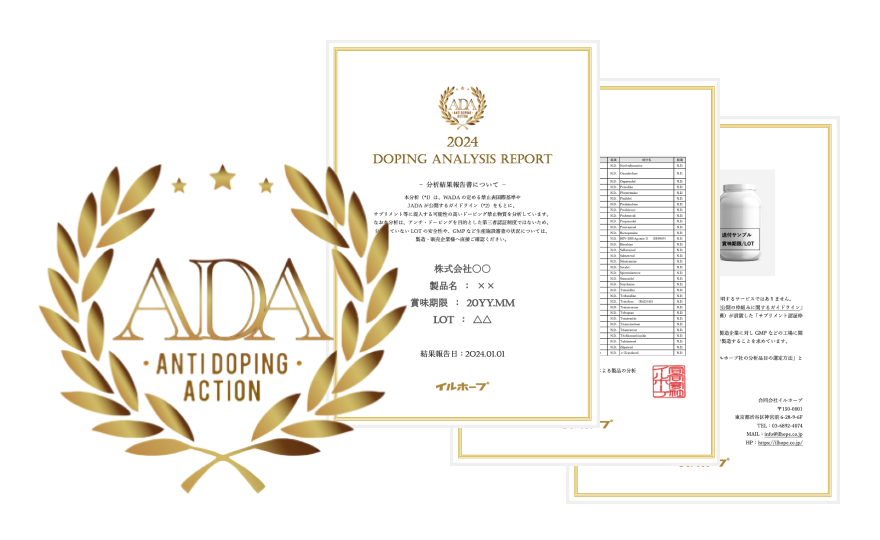
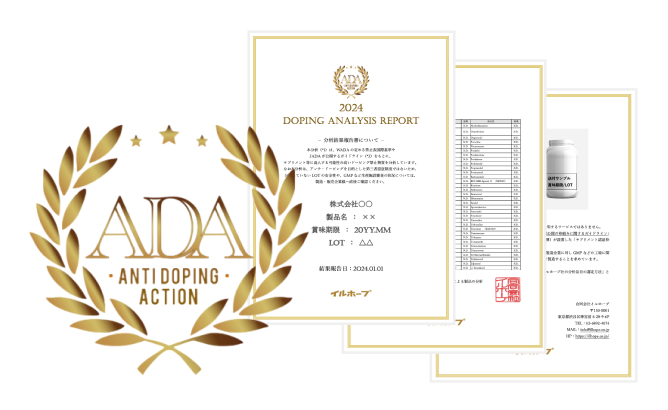
リンク設置、画像差し替え

diff --git a/src/sass/layout/_l-contact.scss b/src/sass/layout/_l-contact.scss
@@ -1,8 +1,8 @@
 @use 'global' as *;
 
-.l-contact {
-  margin-top: rem(47);
-  @include mq() {
-    margin-top: rem(100);
-  }
-}
+// .l-contact {
+//   margin-top: rem(47);
+//   @include mq() {
+//     margin-top: rem(100);
+//   }
+// }

diff --git a/src/sass/object/project/_p-contact.scss b/src/sass/object/project/_p-contact.scss
@@ -1,6 +1,11 @@
 @use "global" as *;
 
 .p-contact {
+  padding-top: rem(47);
+  @include mq() {
+    padding-top: rem(100);
+  }
+
 }
 
 .p-contact__inner {

diff --git a/src/template/_feature.php b/src/template/_feature.php
@@ -42,7 +42,7 @@
           'heading' => '申し込みから分析まで国内で完結',
           'descriptions' => [
             '申し込みから分析まですべて国内で完結できます。分析機関については、検査に精通した要員による、安定した検査結果が出せる機関を指定しています。また、各分析機関に対しては、ISO/IEC17025ないしそれに準じた検査レベルであることを要求しています。',
-            'サプリメント なお、本サービスは、JADA（公益財団法人日本アンチ・ドーピング機構）が設置した、サプリメント認証枠組み検証有識者会議により発行された<a href="#" target="_blank" rel="noopener noreferrer">「スポーツにおけるサプリメントの製品情報公開の枠組みに関するガイドライン」</a>に準じた運営体制を取っています。'
+            'サプリメント なお、本サービスは、JADA（公益財団法人日本アンチ・ドーピング機構）が設置した、サプリメント認証枠組み検証有識者会議により発行された<a href="https://www.playtruejapan.org/entry_img/s-guideline.pdf" target="_blank" rel="noopener noreferrer">「スポーツにおけるサプリメントの製品情報公開の枠組みに関するガイドライン」</a>に準じた運営体制を取っています。'
           ]
         ],
       ];

diff --git a/src/template/_service.php b/src/template/_service.php
@@ -55,10 +55,10 @@
             イルホープでは、サプリメントや化粧品等に混入する可能性の高いドーピング禁止物質の分析サービスを行っています。分析項目については、WADA（世界アンチ・ドーピング機構）の規定するドーピング禁止リストなどをもとに、サプリメント等に混入する可能性の高いドーピング禁止物質をドーピングの専門家とともに選定しています。分析結果は外部への公開が可能な「分析結果報告書」として提出いたします。
           </p>
           <div class="p-service__content2-buttons">
-            <a href="" class="p-service__content2-button c-button">
+            <a href="https://ilhope.co.jp/outcome/" class="p-service__content2-button c-button" target="_blank" rel="noopener noreferrer">
               これまでの分析結果一覧
             </a>
-            <a href="" class="p-service__content2-button c-button c-button--2">
+            <a href="https://ilhope.co.jp/service/method/" class="p-service__content2-button c-button c-button--2" target="_blank" rel="noopener noreferrer">
               分析手法と分析精度
             </a>
           </div>

diff --git a/src/template/_thanks-content.php b/src/template/_thanks-content.php
@@ -1,17 +1,17 @@
 <main class="p-thanks-content l-thanks-content">
   <p class="p-thanks-content__logo">
-  <picture>
-        <img src="assets/images/logo.svg" alt="イルホープ" width="688" height="120">
-      </picture>
+    <picture>
+      <img src="assets/images/logo.svg" alt="イルホープ" width="688" height="120">
+    </picture>
   </p>
   <div class="p-thanks-content__inner l-inner">
     <div class="p-thanks-content__container">
       <h1 class="p-thanks-content__heading">お問い合わせ完了</h1>
       <p class="p-thanks-content__text">お問い合わせを受け付けました。<br />
-      担当営業より3営業日以内に、<br class="u-sp">ご連絡させていただきます。</p>
+        担当営業より3営業日以内に、<br class="u-sp">ご連絡させていただきます。</p>
       <p class="p-thanks-content__text">
         ご不明点などがございましたら、<a href="mailto:info@ilhope.co.jp">info@ilhope.co.jp</a>まで<br class="u-sp">お気軽にお申し付けください。<br />
-      よろしくお願いいたします。 
+        よろしくお願いいたします。
       </p>
     </div>
     <div class="p-thanks-content__button">

diff --git a/src/template/_footer.php b/src/template/_footer.php
@@ -2,8 +2,8 @@
   <div class="p-footer__bg">
     <div class="p-footer__inner l-inner">
       <ul class="p-footer__nav">
-        <li class="p-footer__nav-item"><a href="/" target="_blank" rel="noopener noreferrer">プライバシーポリシー</a></li>
-        <li class="p-footer__nav-item"><a href="/" target="_blank" rel="noopener noreferrer">会社概要</a></li>
+        <li class="p-footer__nav-item"><a href="https://ilhope.co.jp/privacy-policy/" target="_blank" rel="noopener noreferrer">プライバシーポリシー</a></li>
+        <li class="p-footer__nav-item"><a href="https://ilhope.co.jp/company/" target="_blank" rel="noopener noreferrer">会社概要</a></li>
       </ul>
       <p class="p-footer__copyright">
         <small><a href="/" tabindex="-1">© イルホープ All Rights Reserved.</a></small>

diff --git a/src/template/_header.php b/src/template/_header.php
@@ -26,8 +26,8 @@
   <meta name="description" content="ドーピング禁止物質分析サービス">
   <meta name="viewport" content="width=device-width, initial-scale=1.0" />
   <!-- icon -->
-  <link rel="shortcut icon" href="/lp/src/images/favicon.png">
-  <link rel="apple-touch-icon-precomposed" href="/lp/src/images/apple-touch.png">
+  <link rel="shortcut icon" href="favicon.png">
+  <link rel="apple-touch-icon-precomposed" href="apple-touch.png">
   <!-- <link rel="stylesheet" href="./assets/css/style.css"> -->
   <link rel="stylesheet" href="./assets/css/add.css">
 

diff --git a/src/template/_fixed.php b/src/template/_fixed.php
@@ -1,7 +1,7 @@
 <div class="p-fixed l-fixed">
   <ul class="p-fixed__button-items">
     <li class="p-fixed__button-item">
-      <a href="mailto:info@ilhope.jp">
+      <a href="#contact-section">
         <?php
       $args = [
         'sp' => true,

diff --git a/src/template/_mv.php b/src/template/_mv.php
@@ -32,7 +32,7 @@
           </a>
         </li>
         <li class="p-mv__button-item">
-          <a href="mailto:info@ilhope.jp">
+          <a href="#contact-section">
             <?php
             $args = [
               'sp' => false,
